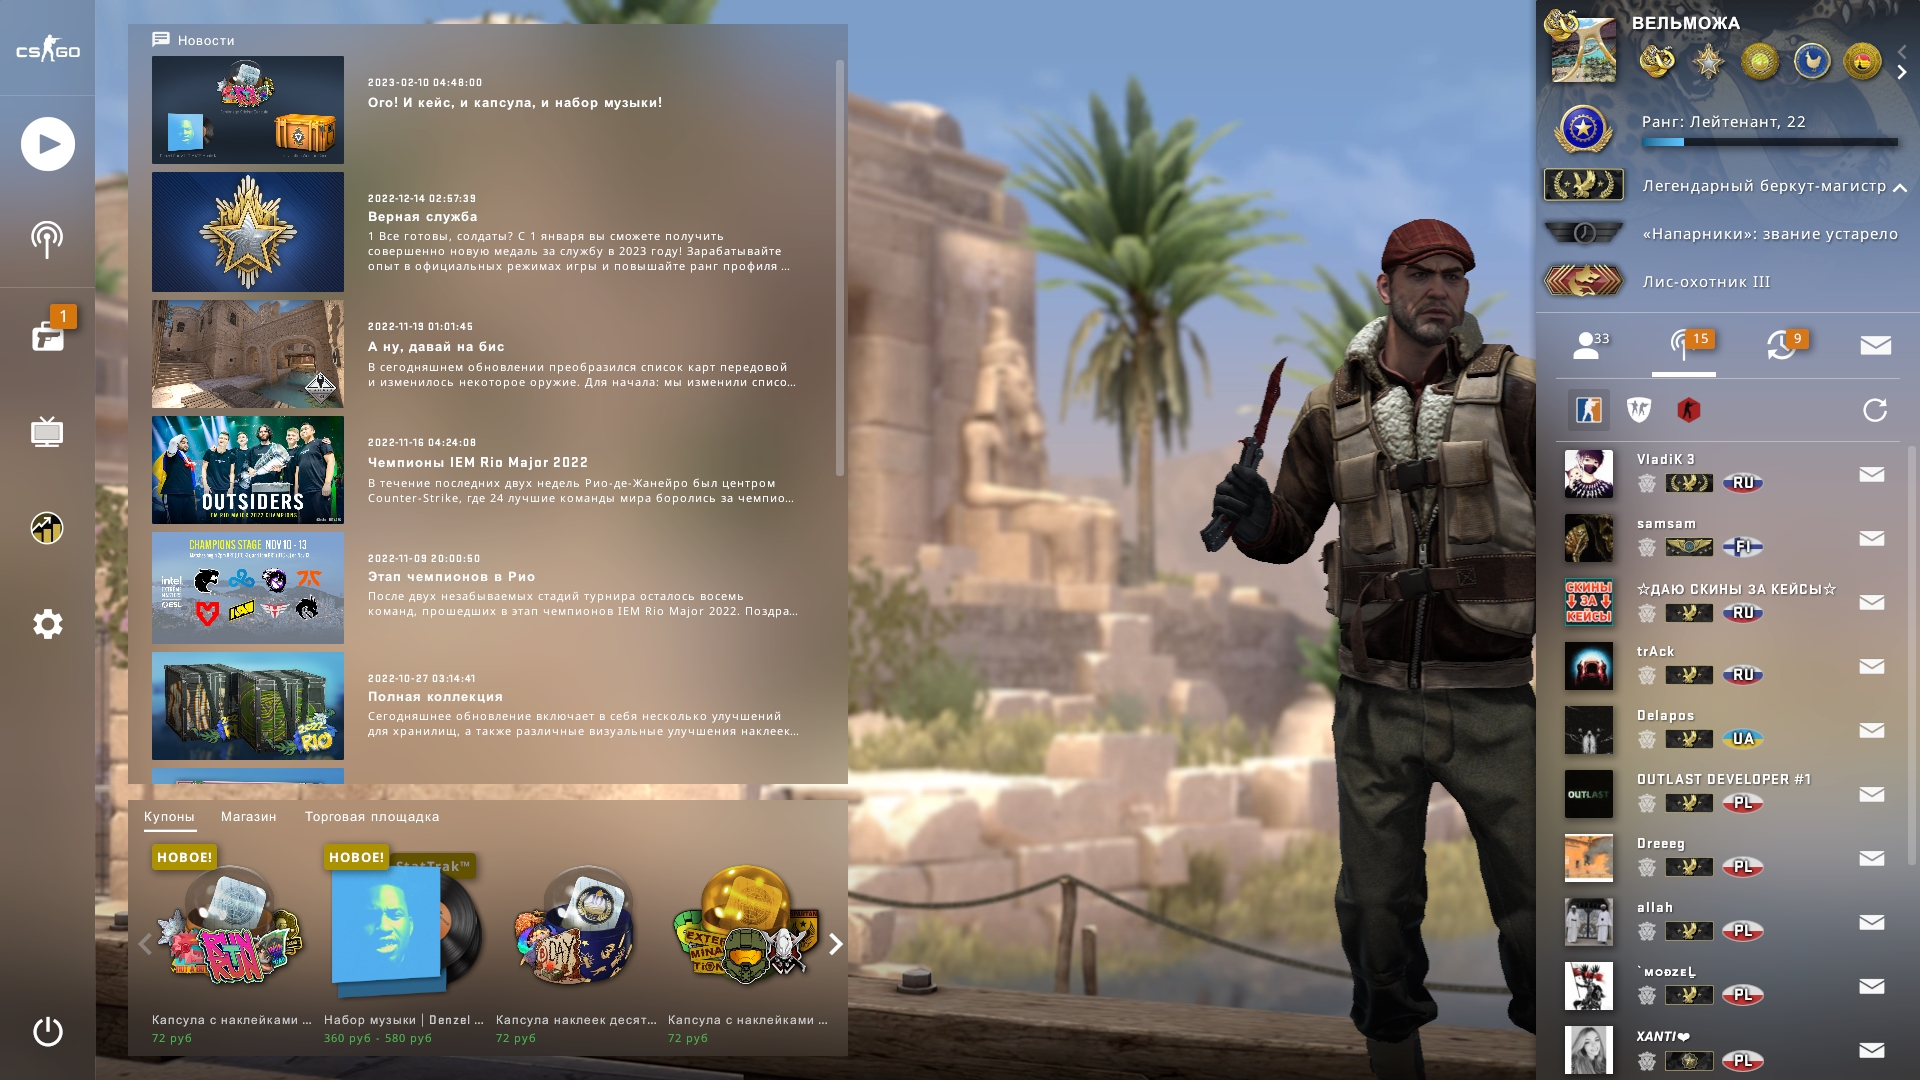
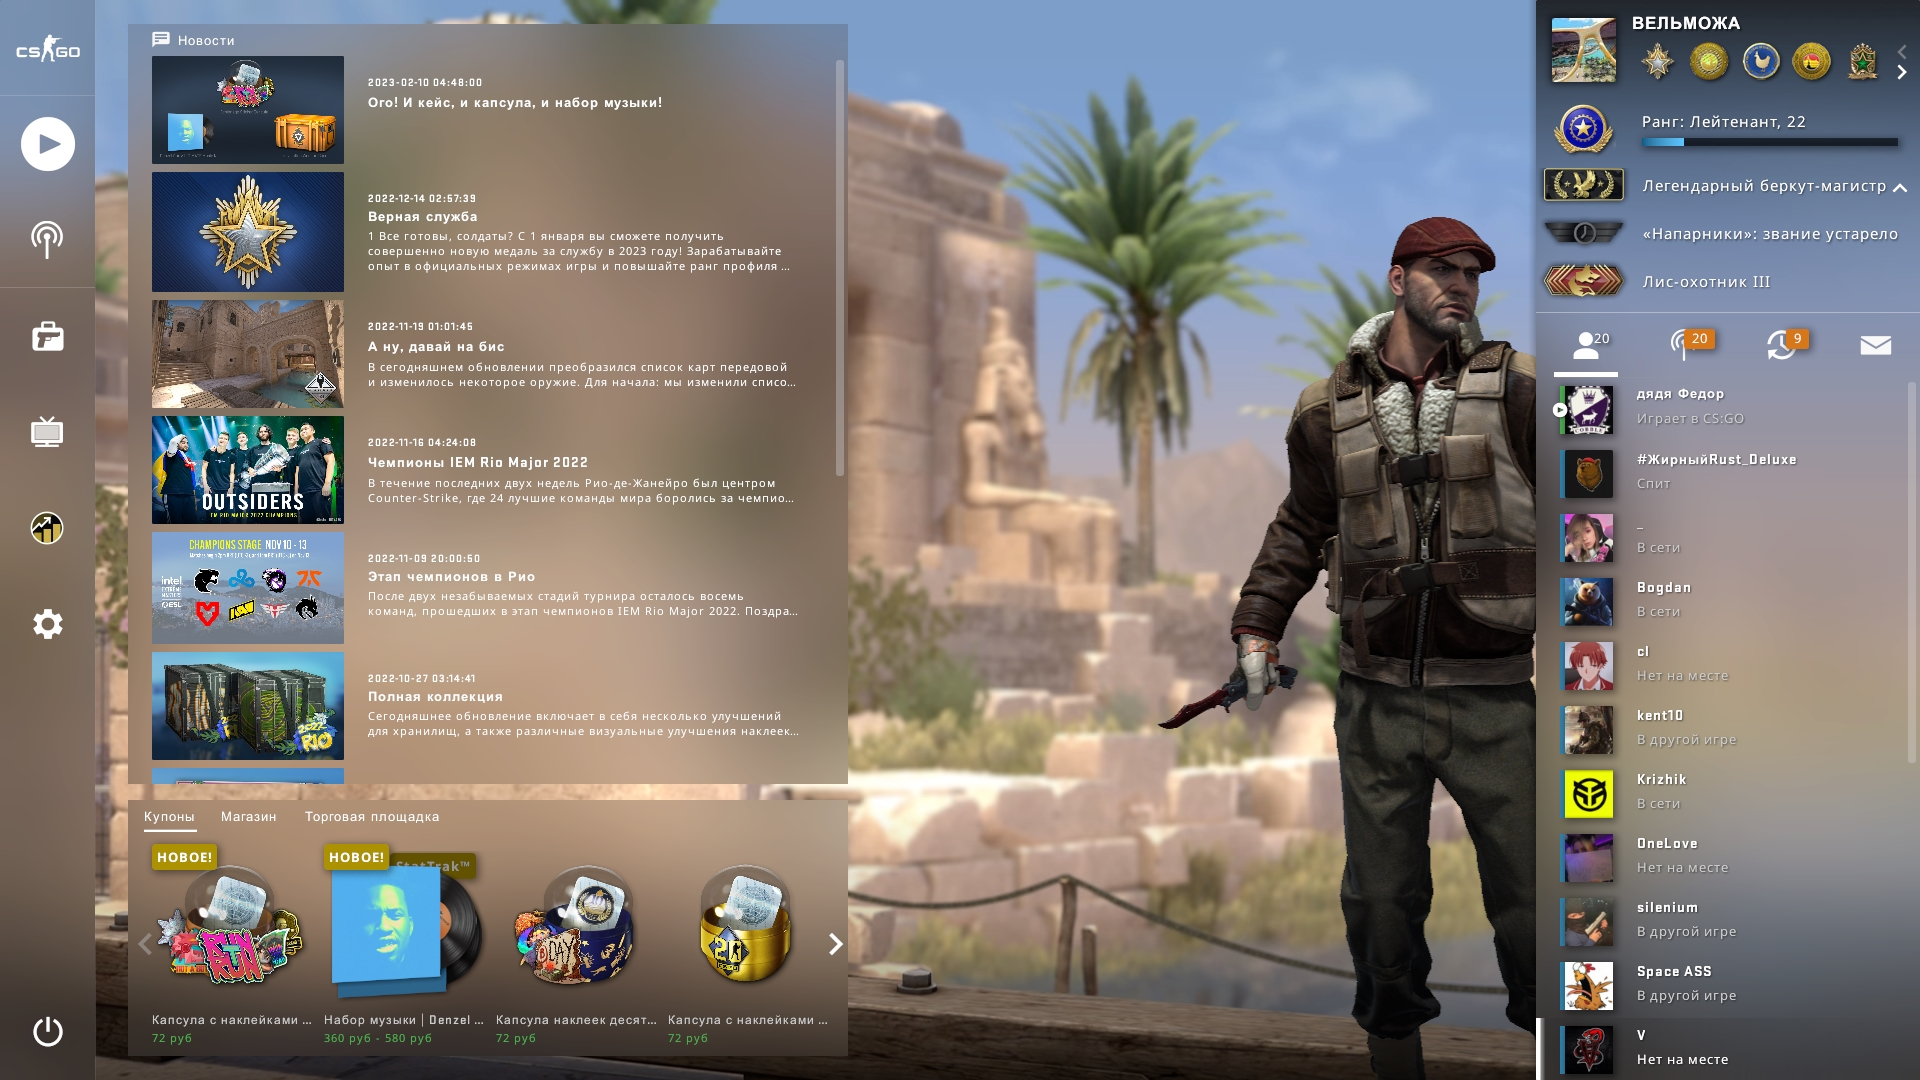
add animation and new blocks in rbar

diff --git a/src/components/RightBar/RightBar.js b/src/components/RightBar/RightBar.js
@@ -12,38 +12,74 @@ import medalChicken from '../../images/chicken.png';
 import stockholm from '../../images/stockholm.png';
 import arrowDown from '../../images/arr_down.png';
 
+import friendsLogo from '../../images/friends.png';
+import searchLogo from '../../images/search.png';
+import lastLogo from '../../images/last.png';
+import messageLogo from '../../images/message.png';
+
+import friendAvatar from '../../images/friend_avatar.png';
+
+
 function RightBar() {
   return (
     <div className="rightBar">
-      <div className='profile'>
-        <img className='profile__avatar' src={avatar} alt="csgo"></img>
-        <h2 className='profile__name'>ВЕЛЬМОЖА</h2>
-        <ul className='profile__medal-list'>
-          <li className='profile__medal'><img className='profile__logo' src={brokenFang} alt="медаль1"/></li>
-          <li className='profile__medal'><img className='profile__logo' src={medal2023} alt="медаль2"/></li>
-          <li className='profile__medal'><img className='profile__logo' src={medalRio} alt="медаль3"/></li>
-          <li className='profile__medal'><img className='profile__logo' src={medalChicken} alt="медаль4"/></li>
-          <li className='profile__medal'><img className='profile__logo' src={stockholm} alt="медаль5"/></li>
-          <li className='profile__arrows'></li>
+      <div className='rightBar__main'>
+        <div className='profile'>
+          <img className='profile__avatar' src={avatar} alt="csgo"></img>
+          <h2 className='profile__name'>ВЕЛЬМОЖА</h2>
+          <ul className='profile__medal-list'>
+            <li className='profile__medal'><img className='profile__logo' src={brokenFang} alt="медаль1"/></li>
+            <li className='profile__medal'><img className='profile__logo' src={medal2023} alt="медаль2"/></li>
+            <li className='profile__medal'><img className='profile__logo' src={medalRio} alt="медаль3"/></li>
+            <li className='profile__medal'><img className='profile__logo' src={medalChicken} alt="медаль4"/></li>
+            <li className='profile__medal'><img className='profile__logo' src={stockholm} alt="медаль5"/></li>
+            <li className='profile__arrows'></li>
+          </ul>
+        </div>
+        <div className='experience'>
+          <img className='experience__logo' src={experienceLogo} alt="csgo"></img>
+          <p className='experience__title'>Ранг: Лейтенант, 22</p>
+          <progress className='experience__progress' value="30" max="100"></progress>
+        </div>
+        <div className='rank'>
+          <img className='rank__logo' src={rankLogo} alt="rank"></img>
+          <p className='rank__title'>Легендарный беркут-магистр</p>
+          <img className='rank__arrow' src={arrowDown} alt="arrow"></img>
+        </div>
+        <div className='rank'>
+          <img className='rank__logo' src={rankOld} alt="rank"></img>
+          <p className='rank__title'>"Напарники": звание устарело</p>
+        </div>
+        <div className='rank'>
+          <img className='rank__logo' src={rankZona} alt="rank"></img>
+          <p className='rank__title'>Лис-охотник |||</p>
+        </div>
+      </div>
+      <div className='rightBar__sub'>
+        <ul className='tools'>
+          <li className='tools__item tools__item_active'><img className='tools__logo' src={friendsLogo} alt="друзья"/></li>
+          <li className='tools__item'><img className='tools__logo' src={searchLogo} alt="поиск"/></li>
+          <li className='tools__item'><img className='tools__logo' src={lastLogo} alt="недавние"/></li>
+          <li className='tools__item'><img className='tools__logo' src={messageLogo} alt="приглашение"/></li>
         </ul>
-      </div>
-      <div className='experience'>
-        <img className='experience__logo' src={experienceLogo} alt="csgo"></img>
-        <p className='experience__title'>Ранг: Лейтенант, 22</p>
-        <progress className='experience__progress' value="30" max="100"></progress>
-      </div>
-      <div className='rank'>
-        <img className='rank__logo' src={rankLogo} alt="rank"></img>
-        <p className='rank__title'>Легендарный беркут-магистр</p>
-        <img className='rank__arrow' src={arrowDown} alt="arrow"></img>
-      </div>
-      <div className='rank'>
-        <img className='rank__logo' src={rankOld} alt="rank"></img>
-        <p className='rank__title'>"Напарники": звание устарело</p>
-      </div>
-      <div className='rank'>
-        <img className='rank__logo' src={rankZona} alt="rank"></img>
-        <p className='rank__title'>Лис-охотник |||</p>
+        <ul className='friends'>
+          <li className='friends__item'>
+            <img className='friends__avatar' src={friendAvatar} alt="друг"/>
+            <p className='friends__name'>дядя Федор</p>
+            <p className='friends__status'>Играет в CS:GO</p>
+          </li>
+          <li className='friends__item'>
+            <img className='friends__avatar' src={friendAvatar} alt="друг"/>
+            <p className='friends__name'>#ЖирныйRust_Deluxe</p>
+            <p className='friends__status'>Спит</p>
+          </li>
+          <li className='friends__item'>
+            <img className='friends__avatar' src={friendAvatar} alt="друг"/>
+            <p className='friends__name'>#ЖирныйRust_Deluxe</p>
+            <p className='friends__status'>Спит</p>
+          </li>
+        </ul>
+
       </div>
     </div>
   );

diff --git a/src/components/RightBar/RightBar.scss b/src/components/RightBar/RightBar.scss
@@ -9,7 +9,30 @@
   color: black;
   position: absolute;
   top: 0;
-  right: 0;
+  right: -290px;
+  background-color: rgba(0, 101, 252, 0.726);  
+  background: linear-gradient(rgba(0, 0, 0, 0.7), rgba(211, 211, 211, 0.6), rgba(0, 0, 0, 0.7));
+  backdrop-filter: blur(20px);
+  transition: 0.18s linear;
+
+  &__main {
+    margin: 0;
+    padding: 0 0 5px 0;
+    display: flex;
+    flex-direction: column;
+    border-bottom: 2px solid rgba(211, 211, 211, 0.5);
+  }
+
+  &__sub {
+    margin: 0;
+    padding: 0;
+    display: flex;
+    flex-direction: column;
+  }
+
+  &:hover {
+    right: 0;
+  }
 
 }
 
@@ -66,6 +89,7 @@
   padding: 0 15px 0 15px;
   display: grid;
   column-gap: 15px;
+  row-gap: 0px;
   grid-template-columns: 66px auto;
   grid-template-areas: 
     "logo title"
@@ -82,9 +106,10 @@
 
   &__title {
     margin: 0;
-    padding: 10px 0 0 10px;
+    padding: 6px 0 0 10px;
     width: 100%;
     display: flex;
+    box-sizing: border-box;
     justify-self: flex-start;
     align-self: flex-end;
     color: white;
@@ -93,10 +118,11 @@
   }
 
   &__progress {
-    margin: 0 0 0 15px;
+    margin: 0 0 0 10px;
     padding: 0;
     height: 20px;
-    width: 255px;
+    width: 260px;
+    display: flex;
     grid-area: progress;
   }
 
@@ -133,4 +159,78 @@
   }
 
 
+}
+
+.tools {
+  margin: 0;
+  padding: 0 10px 0 20px;
+  display: flex;
+  justify-content: space-between;
+  list-style-type: none;
+  align-items: center;
+
+  &__item {
+    margin: 0;
+    padding: 0;
+    width: 64px;
+    display: flex;
+    justify-content: center;
+
+    &_active {
+      border-bottom: 6px solid white;
+    }
+  }
+
+}
+
+.friends {
+  margin: 0;
+  padding: 0;
+  display: flex;
+  flex-direction: column;
+
+  &__item {
+    margin: 0;
+    padding: 10px 0 6px 0;
+    border-left: 9px solid transparent;
+    box-sizing: content-box;
+    display: grid;
+    grid-template-columns: 77px auto;
+    column-gap: 20px;
+    grid-template-areas: 
+    "avatar name"
+    "avatar status"
+  ;
+
+    &:hover {
+      cursor: default;
+      border-left: 9px solid white;
+      background: linear-gradient(90deg, rgba(0, 0, 0, 0.3), rgba(0, 0, 0, 0.1), rgba(0, 0, 0, 0));
+    }
+  }
+
+  &__avatar {
+    margin: 0 0 0 15px;
+    padding: 0;
+    grid-area: avatar;
+    border-left: 5px solid #30779D;
+  }
+
+  &__name {
+    margin: 0;
+    padding: 0;
+    display: flex;
+    color: white;
+    font-size: 15px;
+    grid-area: name;
+  }
+
+  &__status {
+    margin: 0;
+    padding: 0;
+    display: flex;
+    color: lightgray;
+    text-shadow: 1px 1px darkgrey;
+    grid-area: status;
+  }
 }

diff --git a/src/styles/index.css b/src/styles/index.css
@@ -87,6 +87,26 @@
   color: black;
   position: absolute;
   top: 0;
+  right: -290px;
+  background-color: rgba(0, 101, 252, 0.726);
+  background: linear-gradient(rgba(0, 0, 0, 0.7), rgba(211, 211, 211, 0.6), rgba(0, 0, 0, 0.7));
+  backdrop-filter: blur(20px);
+  transition: 0.18s linear;
+}
+.rightBar__main {
+  margin: 0;
+  padding: 0 0 5px 0;
+  display: flex;
+  flex-direction: column;
+  border-bottom: 2px solid rgba(211, 211, 211, 0.5);
+}
+.rightBar__sub {
+  margin: 0;
+  padding: 0;
+  display: flex;
+  flex-direction: column;
+}
+.rightBar:hover {
   right: 0;
 }
 
@@ -136,6 +156,7 @@
   padding: 0 15px 0 15px;
   display: grid;
   column-gap: 15px;
+  row-gap: 0px;
   grid-template-columns: 66px auto;
   grid-template-areas: "logo title" "logo progress";
 }
@@ -148,9 +169,10 @@
 }
 .experience__title {
   margin: 0;
-  padding: 10px 0 0 10px;
+  padding: 6px 0 0 10px;
   width: 100%;
   display: flex;
+  box-sizing: border-box;
   justify-self: flex-start;
   align-self: flex-end;
   color: white;
@@ -158,10 +180,11 @@
   grid-area: title;
 }
 .experience__progress {
-  margin: 0 0 0 15px;
+  margin: 0 0 0 10px;
   padding: 0;
   height: 20px;
-  width: 255px;
+  width: 260px;
+  display: flex;
   grid-area: progress;
 }
 
@@ -191,6 +214,69 @@
   display: flex;
   width: 14px;
   height: 8px;
+}
+
+.tools {
+  margin: 0;
+  padding: 0 10px 0 20px;
+  display: flex;
+  justify-content: space-between;
+  list-style-type: none;
+  align-items: center;
+}
+.tools__item {
+  margin: 0;
+  padding: 0;
+  width: 64px;
+  display: flex;
+  justify-content: center;
+}
+.tools__item_active {
+  border-bottom: 6px solid white;
+}
+
+.friends {
+  margin: 0;
+  padding: 0;
+  display: flex;
+  flex-direction: column;
+}
+.friends__item {
+  margin: 0;
+  padding: 10px 0 6px 0;
+  border-left: 9px solid transparent;
+  box-sizing: content-box;
+  display: grid;
+  grid-template-columns: 77px auto;
+  column-gap: 20px;
+  grid-template-areas: "avatar name" "avatar status";
+}
+.friends__item:hover {
+  cursor: default;
+  border-left: 9px solid white;
+  background: linear-gradient(90deg, rgba(0, 0, 0, 0.3), rgba(0, 0, 0, 0.1), rgba(0, 0, 0, 0));
+}
+.friends__avatar {
+  margin: 0 0 0 15px;
+  padding: 0;
+  grid-area: avatar;
+  border-left: 5px solid #30779D;
+}
+.friends__name {
+  margin: 0;
+  padding: 0;
+  display: flex;
+  color: white;
+  font-size: 15px;
+  grid-area: name;
+}
+.friends__status {
+  margin: 0;
+  padding: 0;
+  display: flex;
+  color: lightgray;
+  text-shadow: 1px 1px darkgrey;
+  grid-area: status;
 }
 
 /*# sourceMappingURL=index.css.map */

diff --git a/src/components/Menu/Menu.js b/src/components/Menu/Menu.js
@@ -1,6 +1,6 @@
 import React from 'react';
 import { Link } from 'react-router-dom';
-import menuLogo from '../../images/background_big_big.jpg';
+import menuLogo from '../../images/background.jpg';
 
 function Menu(props) {
 
